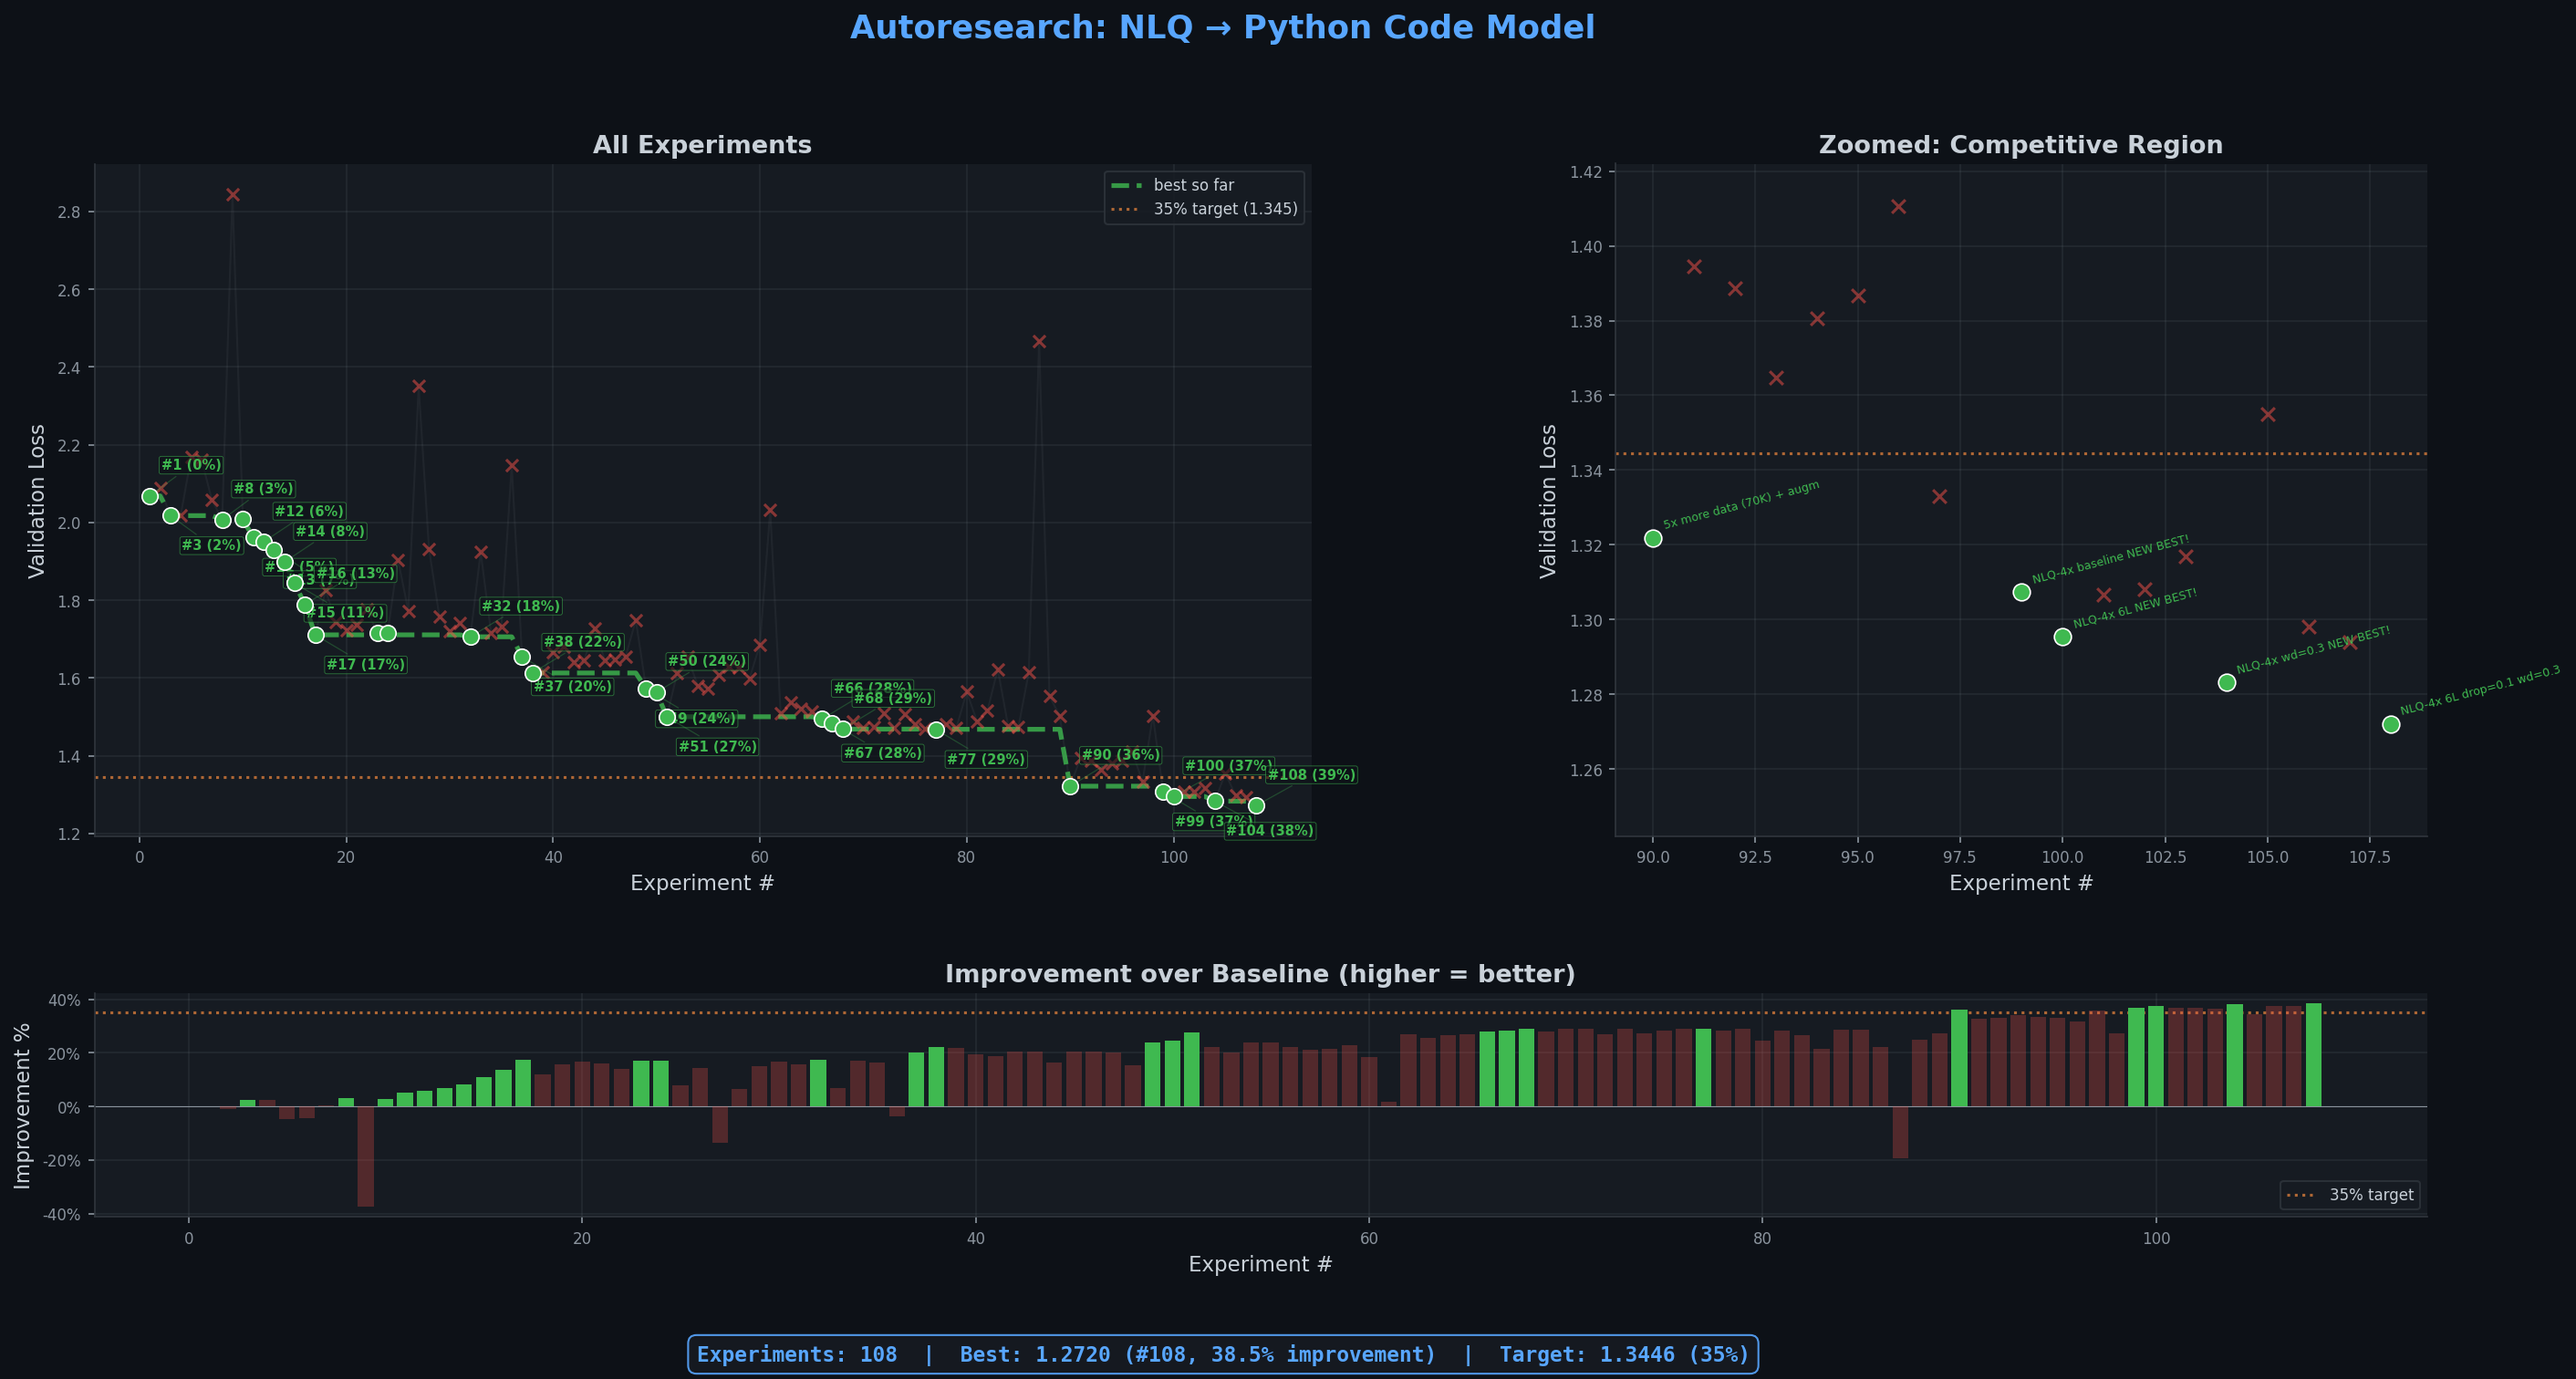
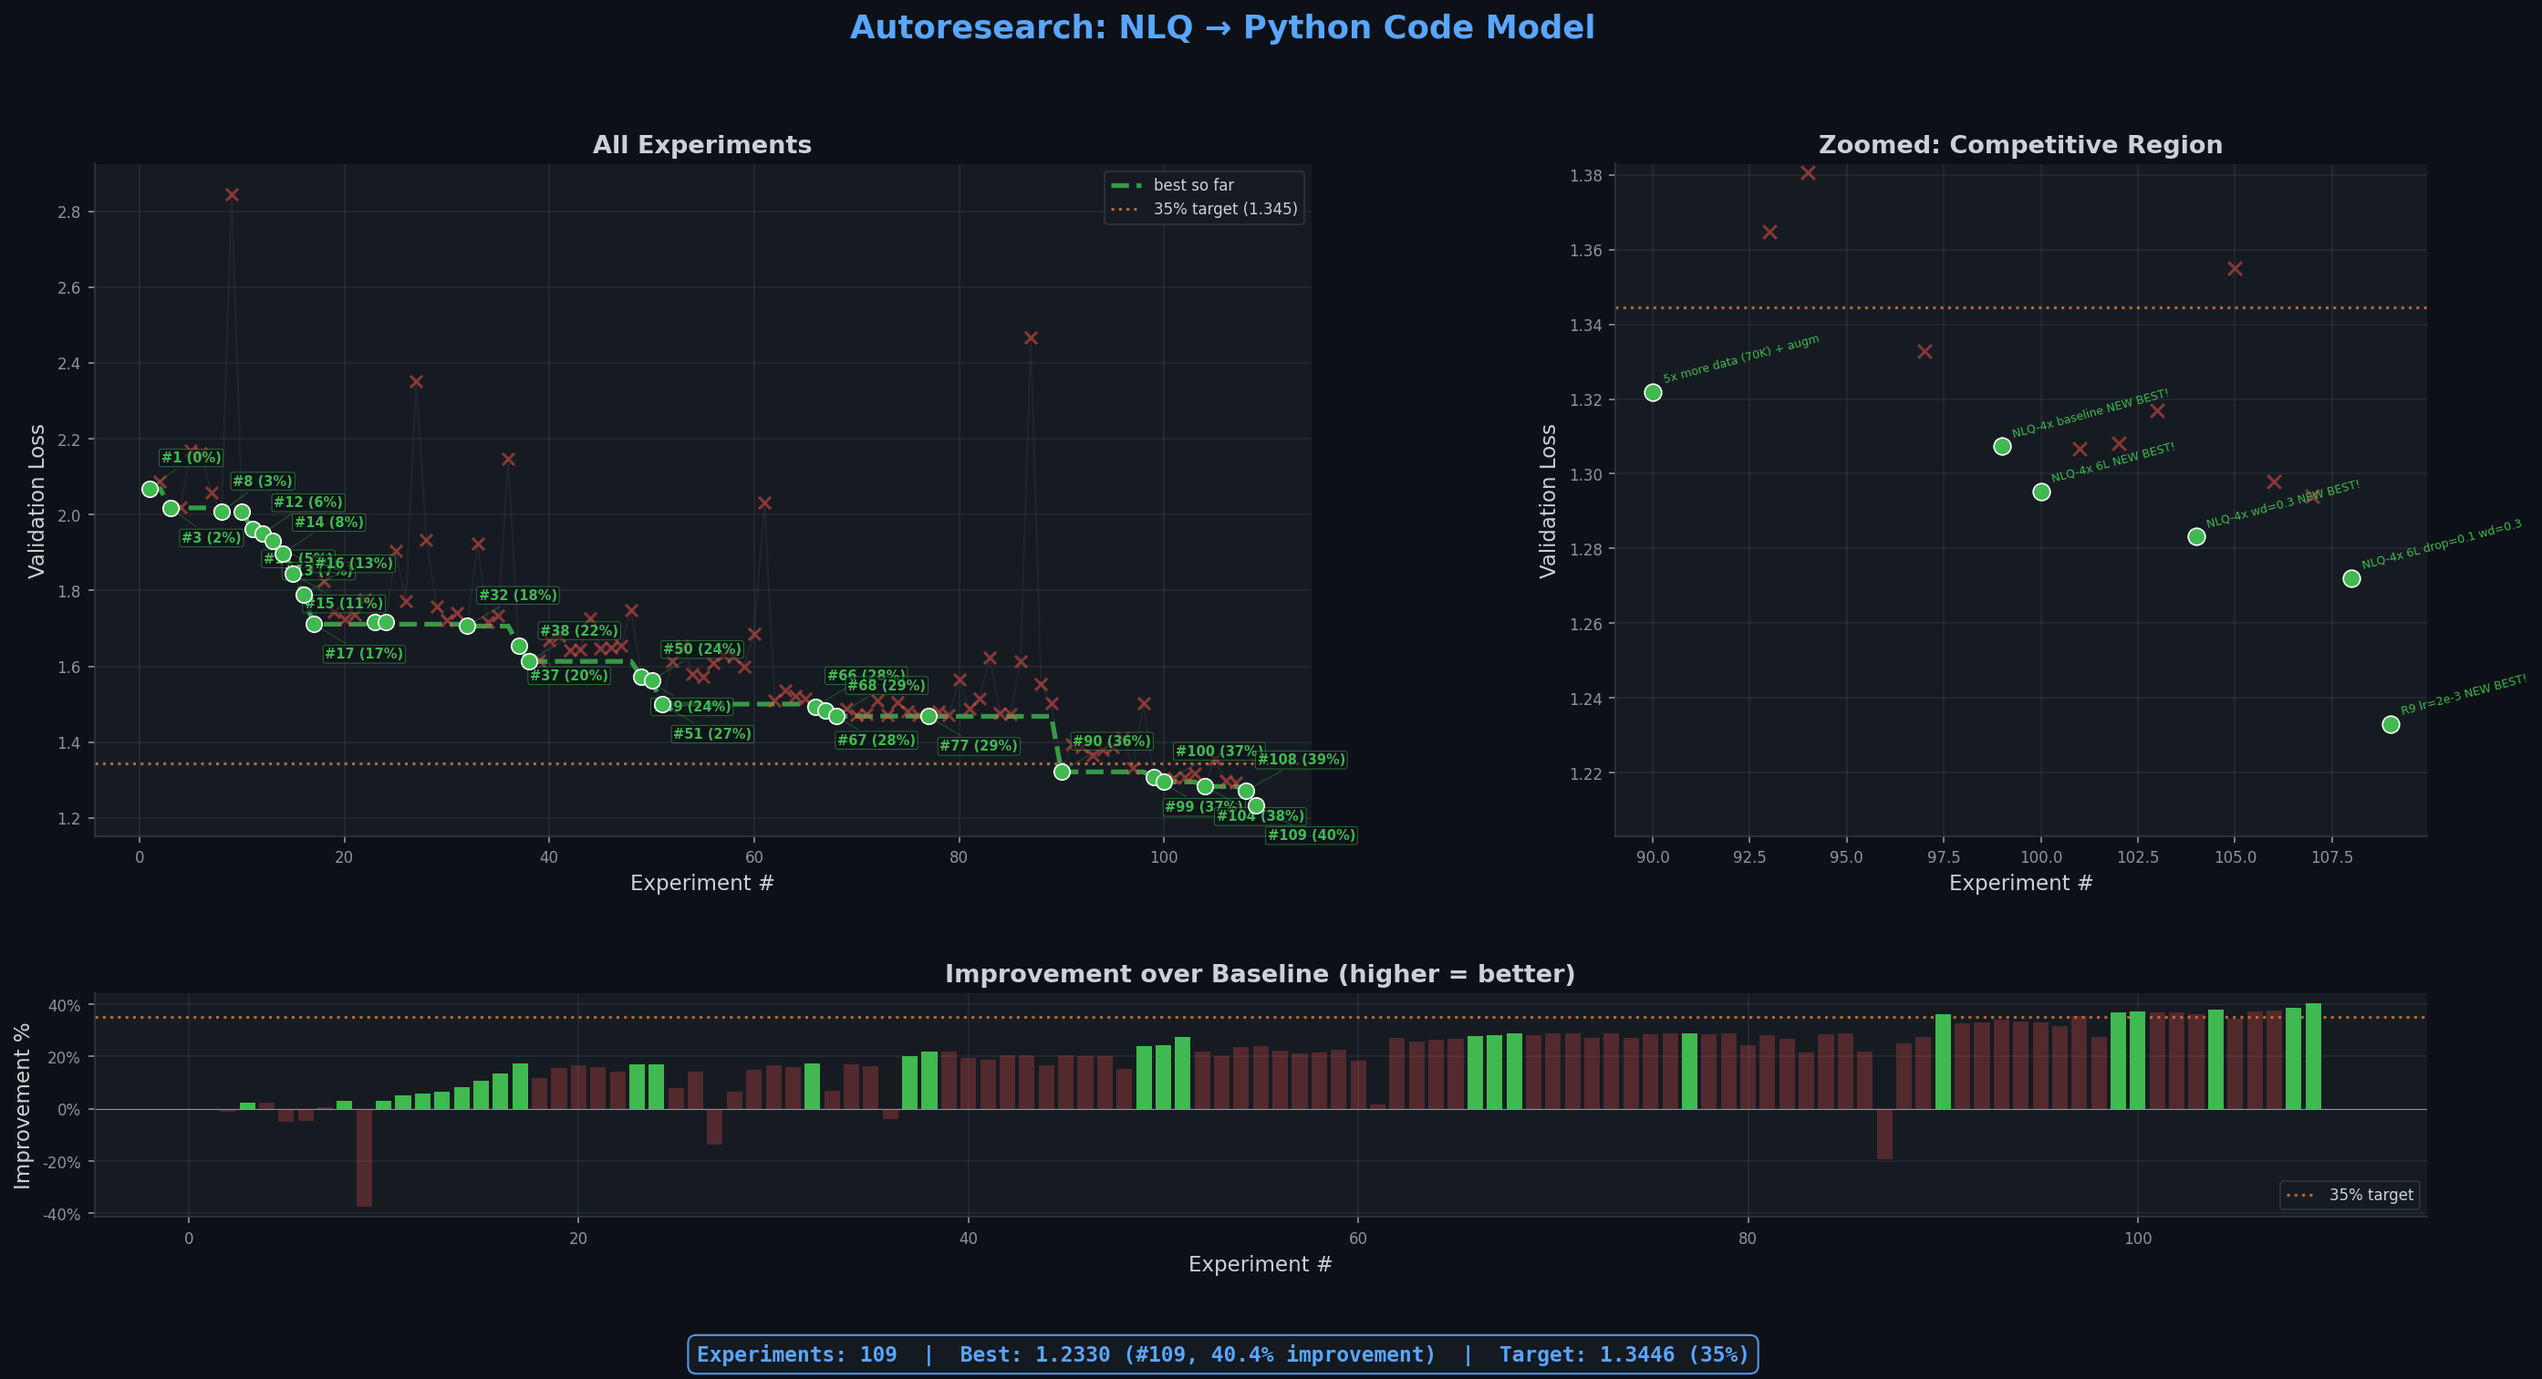
exp 109: R9 lr=2e-3 NEW BEST! (val=1.2330, 40.4%)

diff --git a/train_mlx.py b/train_mlx.py
@@ -47,7 +47,7 @@ DROPOUT = 0.1
 
 # Training
 BATCH_SIZE = 8
-LEARNING_RATE = 3e-3
+LEARNING_RATE = 2e-3
 WEIGHT_DECAY = 0.3
 WARMUP_STEPS = 300
 TIME_BUDGET = 600
